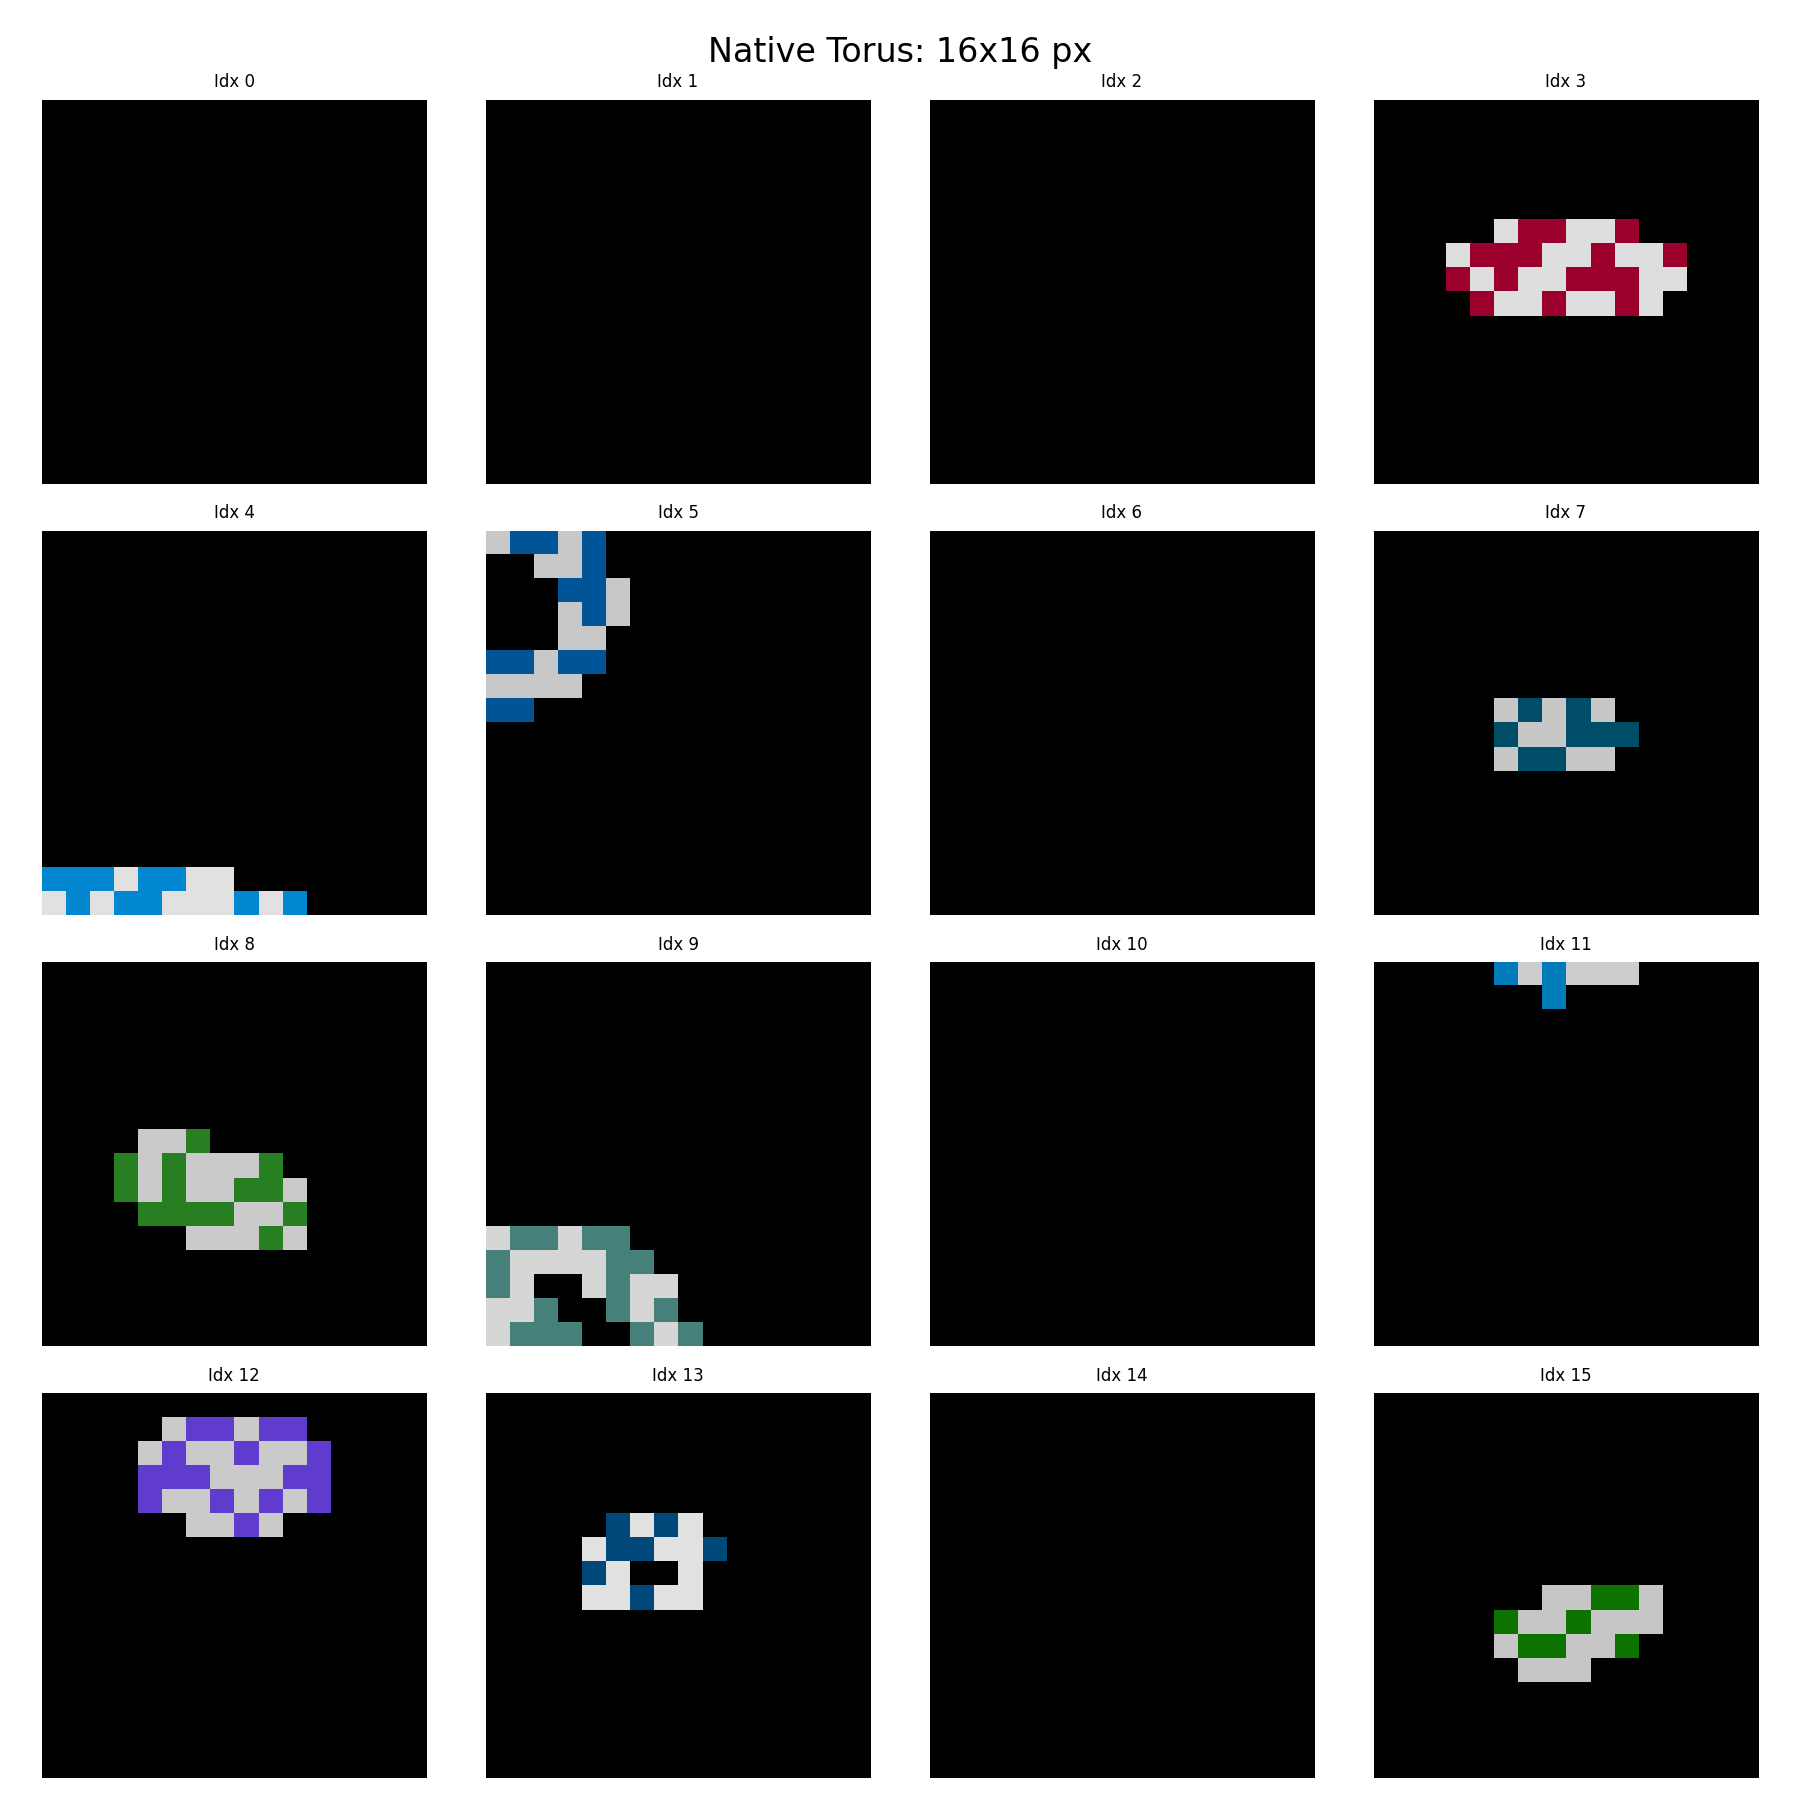
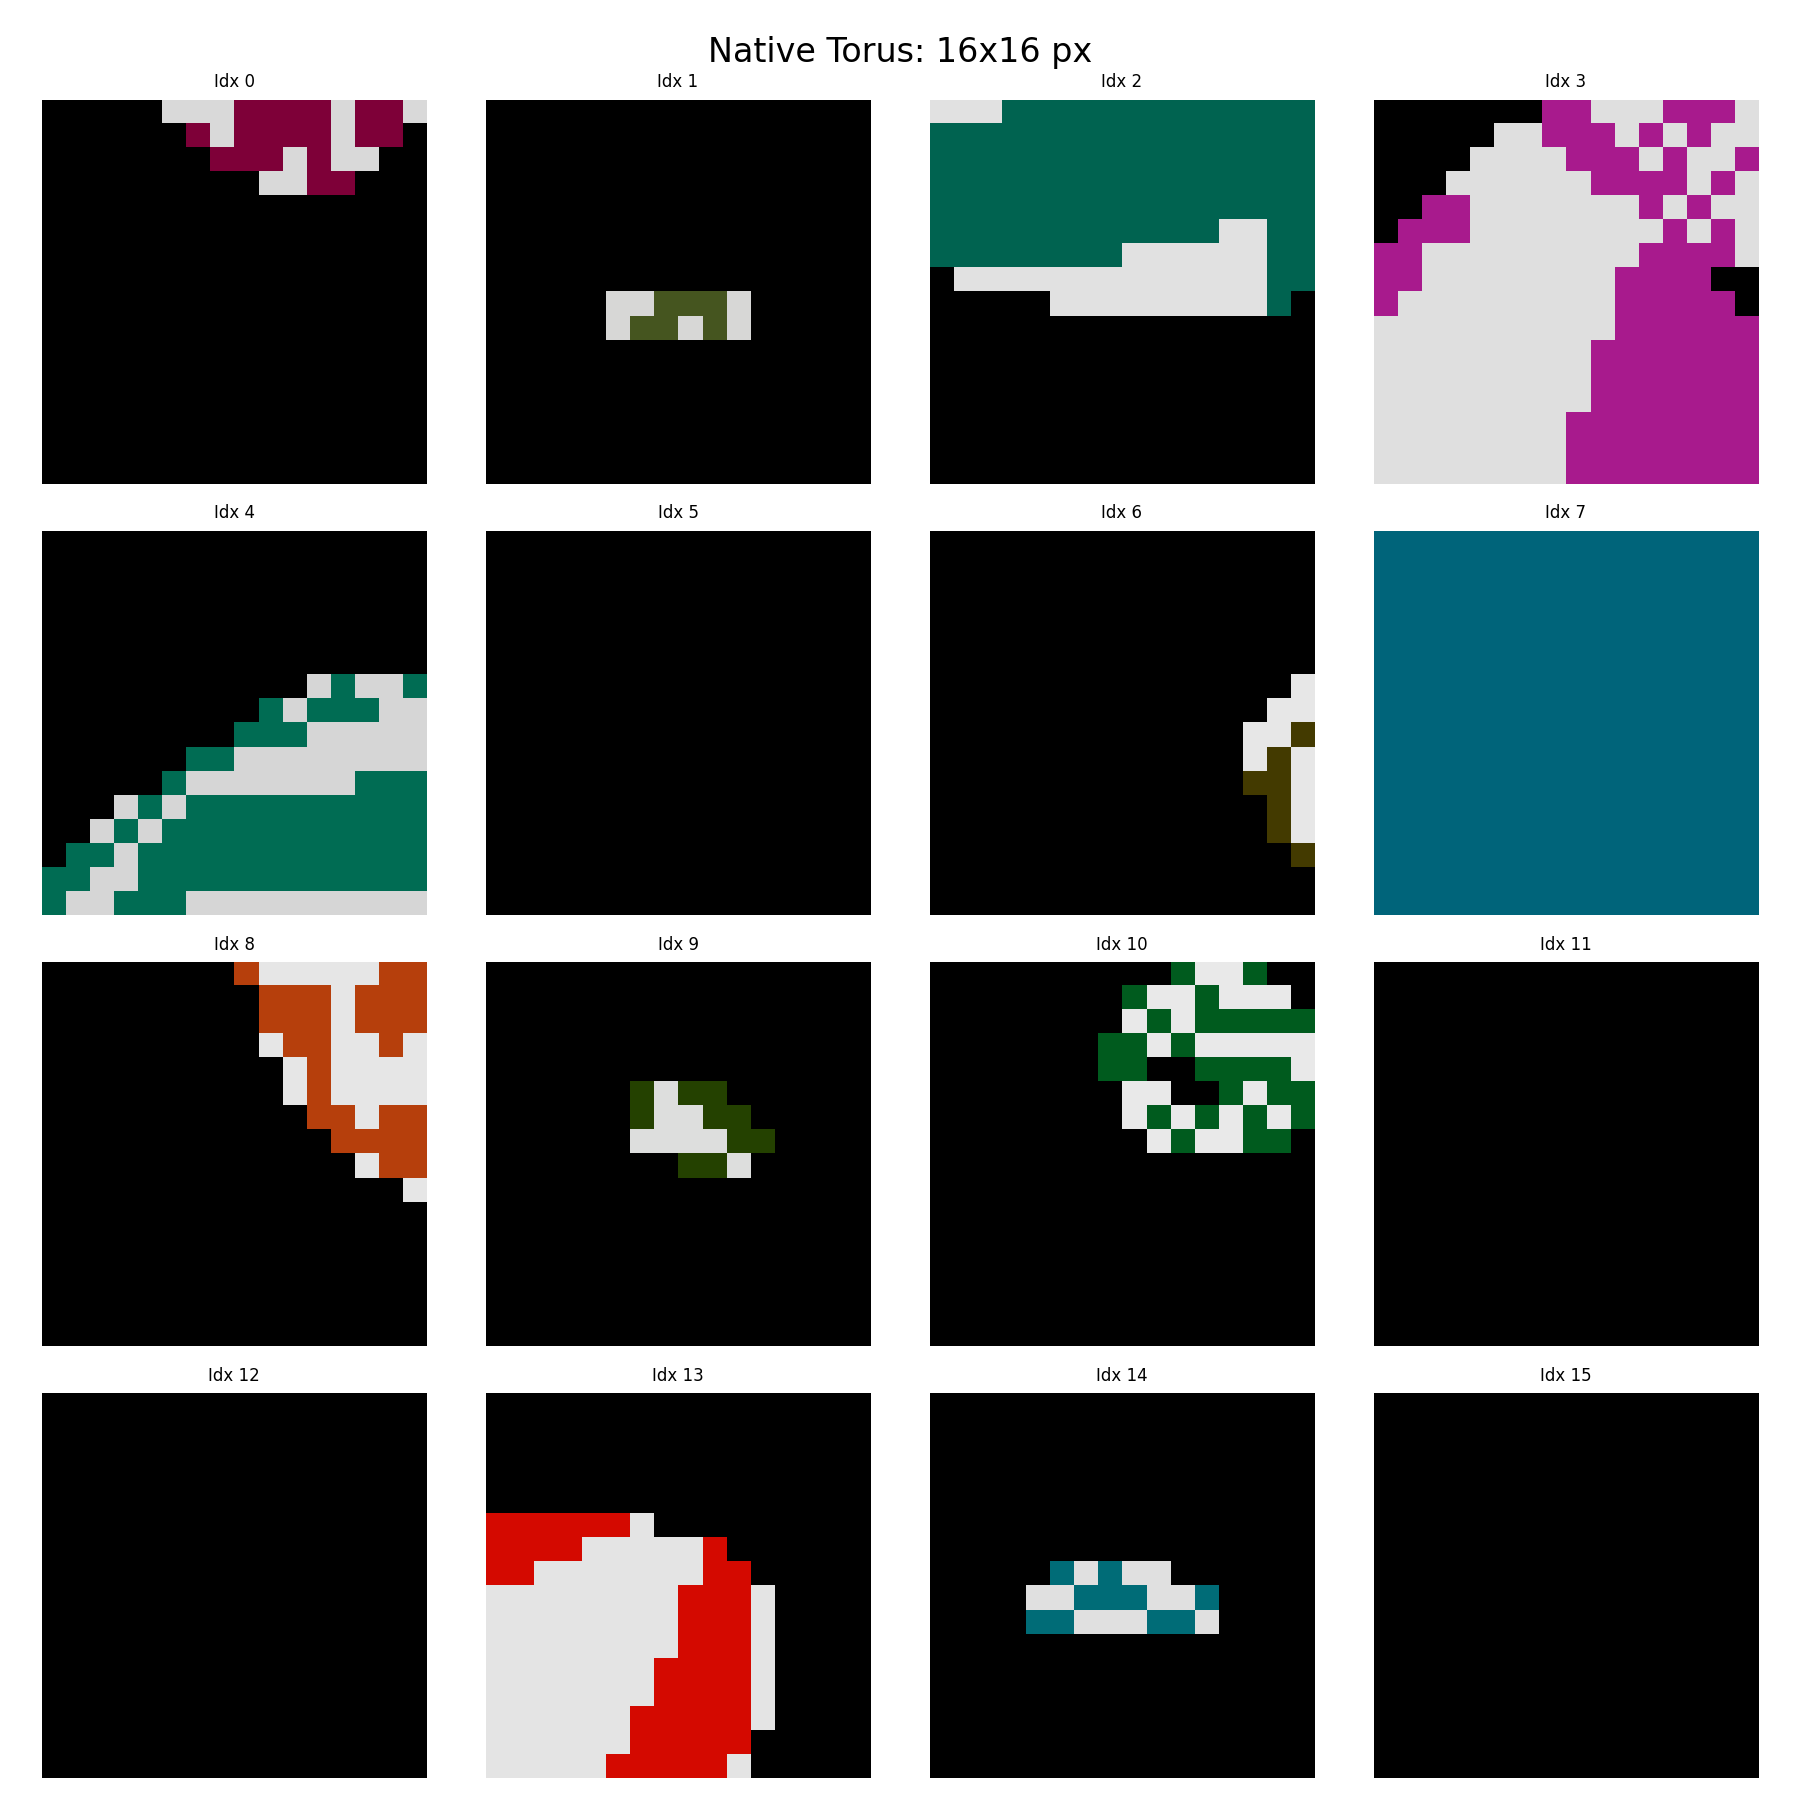
donuts.

diff --git a/dataset_torus_native.py b/dataset_torus_native.py
@@ -1,8 +1,6 @@
 # dataset_torus_native.py
 import torch
 import torch.nn.functional as F
-import numpy as np
-import matplotlib.pyplot as plt
 import math
 import os
 
@@ -10,12 +8,12 @@ class TorusRaymarcher:
     def __init__(self, device='cuda'):
         self.device = device
 
-    def get_camera_rays(self, batch_size, resolution, dist_range=(2.0, 4.0)):
+    def get_camera_rays(self, batch_size, resolution):
         """
-        Generates camera rays looking at the origin.
-        Random orbit around the object.
+        Generates camera rays with smart targeting.
+        Mixes 'Full Object' shots and 'Macro Surface' shots.
         """
-        # 1. Camera Intrinsics (Assume FOV ~60 deg)
+        # 1. Camera Intrinsics (Assume FOV ~60-90 deg)
         # Screen coordinates
         i, j = torch.meshgrid(
             torch.linspace(-1, 1, resolution, device=self.device),
@@ -24,36 +22,66 @@ class TorusRaymarcher:
         ) # [H, W]
         
         # Rays in camera space (Z-forward)
-        # [B, H, W, 3]
+        # We use a slightly wider implicit FOV to ensure we catch things close up
         dirs_cam = torch.stack([j, -i, torch.ones_like(i)], dim=-1).unsqueeze(0).expand(batch_size, -1, -1, -1)
         dirs_cam = F.normalize(dirs_cam, dim=-1)
         
-        # 2. Camera Extrinsics (Orbit)
-        # Random spherical coords
+        # 2. Camera Extrinsics (Targeting Logic)
+        
+        # Mode Selection: 60% Macro (Close-up), 40% Full View
+        is_macro = torch.rand(batch_size, device=self.device) < 0.6
+        
+        # -- Target Point Calculation --
+        # Full View: Look at (0,0,0)
+        # Macro View: Look at a random point on the major ring (Radius=1.0)
+        target_angle = torch.rand(batch_size, device=self.device) * 2 * math.pi
+        
+        tx = torch.cos(target_angle) # Radius 1.0
+        tz = torch.sin(target_angle)
+        
+        target = torch.zeros(batch_size, 3, device=self.device)
+        # Apply macro targets
+        target[is_macro, 0] = tx[is_macro]
+        target[is_macro, 2] = tz[is_macro]
+        # Jitter Y target slightly for macro to look at top/bottom of tube surface
+        target[is_macro, 1] = (torch.rand(is_macro.sum(), device=self.device) - 0.5) * 0.2
+        
+        # -- Camera Position Calculation --
+        # Distances relative to the TARGET
+        # Full: Far enough to see whole ring (2.5 to 4.0)
+        # Macro: Close enough to see texture, safe enough not to clip (0.6 to 1.2)
+        # Note: Tube radius is 0.4. Dist 0.6 leaves 0.2 clearance.
+        dist_full = torch.rand(batch_size, device=self.device) * 1.5 + 2.5
+        dist_macro = torch.rand(batch_size, device=self.device) * 0.6 + 0.6
+        dist = torch.where(is_macro, dist_macro, dist_full)
+        
+        # Orbit around the TARGET
         theta = torch.rand(batch_size, device=self.device) * 2 * math.pi
-        phi = torch.rand(batch_size, device=self.device) * math.pi * 0.8 + 0.1 # Avoid pure poles
-        radius = torch.rand(batch_size, device=self.device) * (dist_range[1] - dist_range[0]) + dist_range[0]
+        # Clamp phi to avoid degenerate LookAt (poles)
+        phi = torch.rand(batch_size, device=self.device) * 2.8 + 0.17 # ~10 to 170 degrees
         
-        # Camera Position (Eye)
-        cx = radius * torch.sin(phi) * torch.cos(theta)
-        cy = radius * torch.cos(phi)
-        cz = radius * torch.sin(phi) * torch.sin(theta)
-        origin = torch.stack([cx, cy, cz], dim=1) # [B, 3]
+        cx = dist * torch.sin(phi) * torch.cos(theta)
+        cy = dist * torch.cos(phi)
+        cz = dist * torch.sin(phi) * torch.sin(theta)
+        offset = torch.stack([cx, cy, cz], dim=1)
         
-        # LookAt Matrix (Target = 0,0,0)
-        # Forward = -Position (normalized)
-        forward = -F.normalize(origin, dim=1)
+        origin = target + offset # [B, 3]
+        
+        # -- LookAt Matrix --
+        # Forward = Direction from Camera to Target
+        forward = F.normalize(target - origin, dim=1)
+        
         # Up vector (World Up = 0,1,0)
         world_up = torch.tensor([0.0, 1.0, 0.0], device=self.device).view(1, 3).expand(batch_size, -1)
+        
+        # Standard Gram-Schmidt
         right = F.normalize(torch.cross(forward, world_up), dim=1)
         up = torch.cross(right, forward)
         
         # Transform rays to World Space
-        # [B, 3, 3] Rotation Matrix
-        R = torch.stack([right, up, forward], dim=2) 
+        R = torch.stack([right, up, forward], dim=2) # [B, 3, 3]
         
-        # Apply rotation to rays: [B, H, W, 3] @ [B, 3, 3] 
-        # We flatten rays for matmul, then reshape
+        # Apply rotation: [B, H*W, 3] @ [B, 3, 3]
         rays_world = torch.bmm(dirs_cam.view(batch_size, -1, 3), R).view(batch_size, resolution, resolution, 3)
         
         return origin, rays_world
@@ -61,7 +89,6 @@ class TorusRaymarcher:
     def sdf_torus(self, p, R_major=1.0, r_minor=0.4):
         """
         Signed Distance Function for a Torus lying on XZ plane.
-        p: [N, 3]
         """
         # Distance to the ring in XZ plane
         q_xy = torch.norm(p[..., [0, 2]], dim=-1) - R_major
@@ -83,11 +110,11 @@ class TorusRaymarcher:
         o = origin.view(B, 1, 3).expand(-1, H*W, -1).reshape(-1, 3)
         d = rays.view(-1, 3)
         
-        # Current position along ray
         t = torch.zeros(o.shape[0], device=self.device)
-        
-        # Mask of active rays (haven't hit, haven't escaped)
         active_mask = torch.ones_like(t, dtype=torch.bool)
+        
+        # Optimization: Don't march rays that look away from bounding sphere (approx)
+        # But for torus, just march everything, it's cheap enough.
         
         for _ in range(max_steps):
             if not active_mask.any(): break
@@ -95,19 +122,18 @@ class TorusRaymarcher:
             p = o + d * t.unsqueeze(-1)
             dist = self.sdf_torus(p)
             
-            # Update t
-            t[active_mask] += dist[active_mask]
+            # Update t only for active rays
+            # We use `where` to avoid inplace ops on masked tensors which can be slow/tricky
+            t_next = t + dist
+            t = torch.where(active_mask, t_next, t)
             
-            # Convergence check
+            # Check convergence
             hit = dist < 0.001
-            miss = t > 10.0
+            miss = t > 8.0 # Tighter bound than 10.0 for speed
             
-            # We don't stop marching hit rays immediately in simple vectorized, 
-            # we just stop updating them effectively or let them jitter.
-            # Ideally we mask.
+            # Update mask
             active_mask = active_mask & (~hit) & (~miss)
         
-        # Compute final points
         p_final = o + d * t.unsqueeze(-1)
         
         # Final validity check
@@ -124,18 +150,6 @@ class TorusRaymarcher:
         u = torch.atan2(p[..., 2], p[..., 0]) / (2 * math.pi) + 0.5
         
         # V: Angle around the tube center (Minor)
-        # Vector from center of major ring to point
-        center_to_p_xz = F.normalize(p[..., [0, 2]], dim=-1) * R_major
-        center_to_p = p.clone()
-        center_to_p[..., 0] -= center_to_p_xz[..., 0]
-        center_to_p[..., 2] -= center_to_p_xz[..., 1]
-        
-        # Now center_to_p is the vector from the tube spine to the surface
-        # Project onto the local frame of the tube section
-        # Local Y is world Y (p[..., 1])
-        # Local X is the radial direction outwards
-        
-        # Simplified: V is angle of (q_xy, q_z) from SDF logic
         q_xy = torch.norm(p[..., [0, 2]], dim=-1) - R_major
         q_z = p[..., 1]
         v = torch.atan2(q_z, q_xy) / (2 * math.pi) + 0.5
@@ -143,7 +157,6 @@ class TorusRaymarcher:
         return u, v
 
     def lab_to_rgb(self, L, a, b):
-        # ... [Same color conversion as before] ...
         y = (L + 16.) / 116.
         x = a / 500. + y
         z = y - b / 200.
@@ -160,106 +173,66 @@ class TorusRaymarcher:
         B = valid_mask.shape[0]
         H = W = resolution
         
-        # 1. Get Colors per batch item
-        # Bright: Grey
-        L_bright = torch.rand(B, 1, device=self.device) * 10.0 + 80.0
+        # 1. Colors
+        L_bright = torch.rand(B, 1, device=self.device) * 10.0 + 85.0
         c_bright = self.lab_to_rgb(L_bright, torch.zeros_like(L_bright), torch.zeros_like(L_bright))
         
-        # Dark: Random Color
         L_dark = torch.rand(B, 1, device=self.device) * 30.0 + 20.0
         a_dark = (torch.rand(B, 1, device=self.device) - 0.5) * 160.0
         b_dark = (torch.rand(B, 1, device=self.device) - 0.5) * 160.0
         c_dark = self.lab_to_rgb(L_dark, a_dark, b_dark)
         
-        # 2. Compute UVs
+        # 2. UVs & Pattern
         u, v = self.get_uv(p)
         
-        # 3. Herringbone Logic (Vectorized)
-        # Tile density
+        # Slightly higher frequency for macro details
         u_freq = 12.0
-        v_freq = 4.0
+        v_freq = 6.0 
         
         u_scaled = u * u_freq
         v_scaled = v * v_freq
         
-        # Column Index
         col_idx = torch.floor(u_scaled)
         
-        # Local pattern (x +/- y)
-        # Use simple stripes
         stripe_freq = 2.0 * math.pi
-        
         pat_even = torch.cos((u_scaled + v_scaled) * stripe_freq)
         pat_odd  = torch.cos((u_scaled - v_scaled) * stripe_freq)
         
-        # Mix based on column parity
         is_even = (col_idx % 2 == 0)
         pattern = torch.where(is_even, pat_even, pat_odd)
-        
-        # Threshold
         is_dark = pattern > 0
         
-        # 4. Composite
-        # Flatten valid_mask to match p [N_total, 3]? No, p is [N_total, 3]
-        # We need to map back to B,H,W
-        
-        # Colors: [B, 3] -> broadcast to [B, H, W, 3]
-        img = torch.zeros(B, H, W, 3, device=self.device)
-        
-        # We need to construct the texture per pixel
-        # This is tricky because `p` is flattened or masked.
-        # Let's assume `p` passed in is [B, H, W, 3] but contains garbage where !valid_mask
-        
+        # 3. Composite
         c_bright_expanded = c_bright.view(B, 1, 1, 3).expand(-1, H, W, -1)
         c_dark_expanded = c_dark.view(B, 1, 1, 3).expand(-1, H, W, -1)
         
         surface_color = torch.where(is_dark.unsqueeze(-1), c_dark_expanded, c_bright_expanded)
         
-        # Apply Background (Black or Noise? Let's do Black)
         final_img = torch.where(valid_mask.unsqueeze(-1), surface_color, torch.zeros_like(surface_color))
-        
         return final_img
-
-# --- The Iterator Replacement ---
 
 class TorusIterator:
     def __init__(self, device='cuda'):
         self.marcher = TorusRaymarcher(device)
         
     def generate_batch(self, batch_size, resolution, **kwargs):
-        # 1. Rays
         origins, rays = self.marcher.get_camera_rays(batch_size, resolution)
-        
-        # 2. March
         p, mask = self.marcher.intersect(origins, rays)
-        
-        # 3. Shade
-        # We reshape p to [B, H, W, 3] for shading logic
         p_reshaped = p.view(batch_size, resolution, resolution, 3)
         images = self.marcher.shade_batch(p_reshaped, mask, resolution)
-        
-        # Permute to [B, C, H, W] for the model
         return images.permute(0, 3, 1, 2)
 
-# --- Test Dump ---
 if __name__ == "__main__":
-    iterator = TorusIterator(device='cuda')
-    os.makedirs("torus_native_samples", exist_ok=True)
-    
-    configs = [(16, 16), (32, 16), (256, 4)]
-    
-    for res, bs in configs:
-        print(f"Rendering {res}x{res}...")
-        batch = iterator.generate_batch(bs, res)
-        
-        # Save Grid
-        batch_np = batch.permute(0, 2, 3, 1).cpu().numpy()
-        rows = int(math.sqrt(bs)); cols = math.ceil(bs/rows)
-        fig, axes = plt.subplots(rows, cols, figsize=(cols*2, rows*2))
-        for i, ax in enumerate(axes.flat):
-            if i < bs:
-                ax.imshow(batch_np[i])
-            ax.axis('off')
-        plt.tight_layout()
-        plt.savefig(f"torus_native_samples/native_{res}px.png", dpi=150)
-        plt.close()
+    # Self-test if run directly
+    import matplotlib.pyplot as plt
+    iterator = TorusIterator(device='cuda' if torch.cuda.is_available() else 'cpu')
+    os.makedirs("torus_test", exist_ok=True)
+    img = iterator.generate_batch(16, 64)
+    # Save a grid
+    grid = img.permute(0, 2, 3, 1).cpu().numpy()
+    fig, axes = plt.subplots(4, 4, figsize=(8, 8))
+    for i, ax in enumerate(axes.flat):
+        ax.imshow(grid[i])
+        ax.axis('off')
+    plt.savefig("torus_test/test_grid.png")
+    print("Test grid saved to torus_test/test_grid.png")
